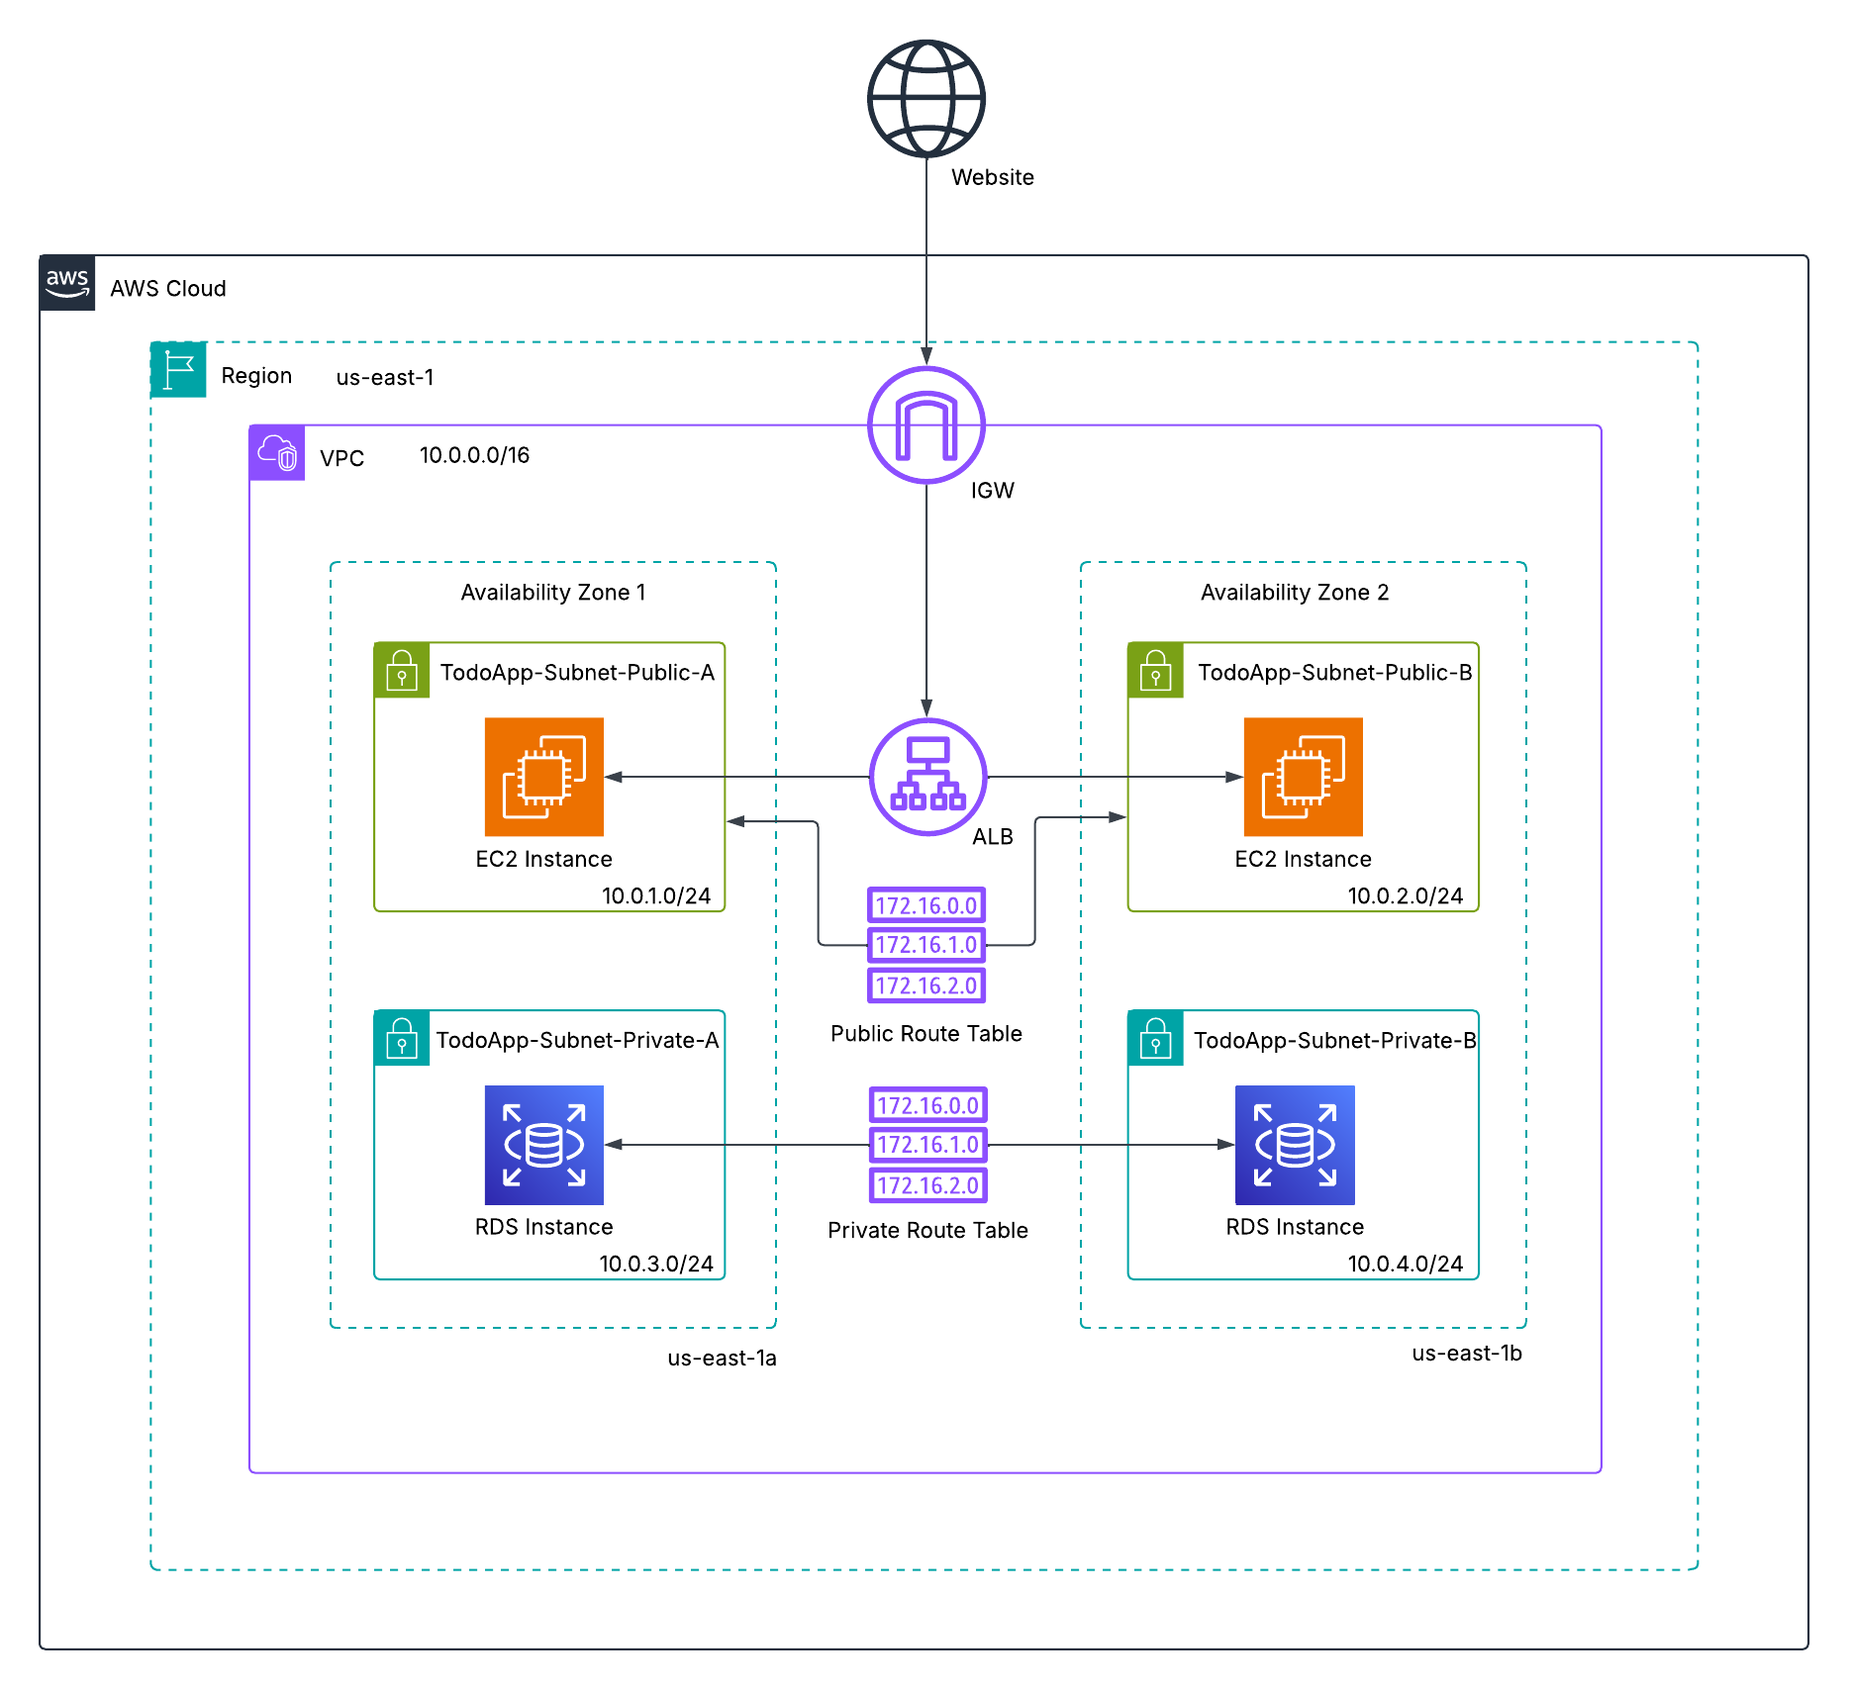
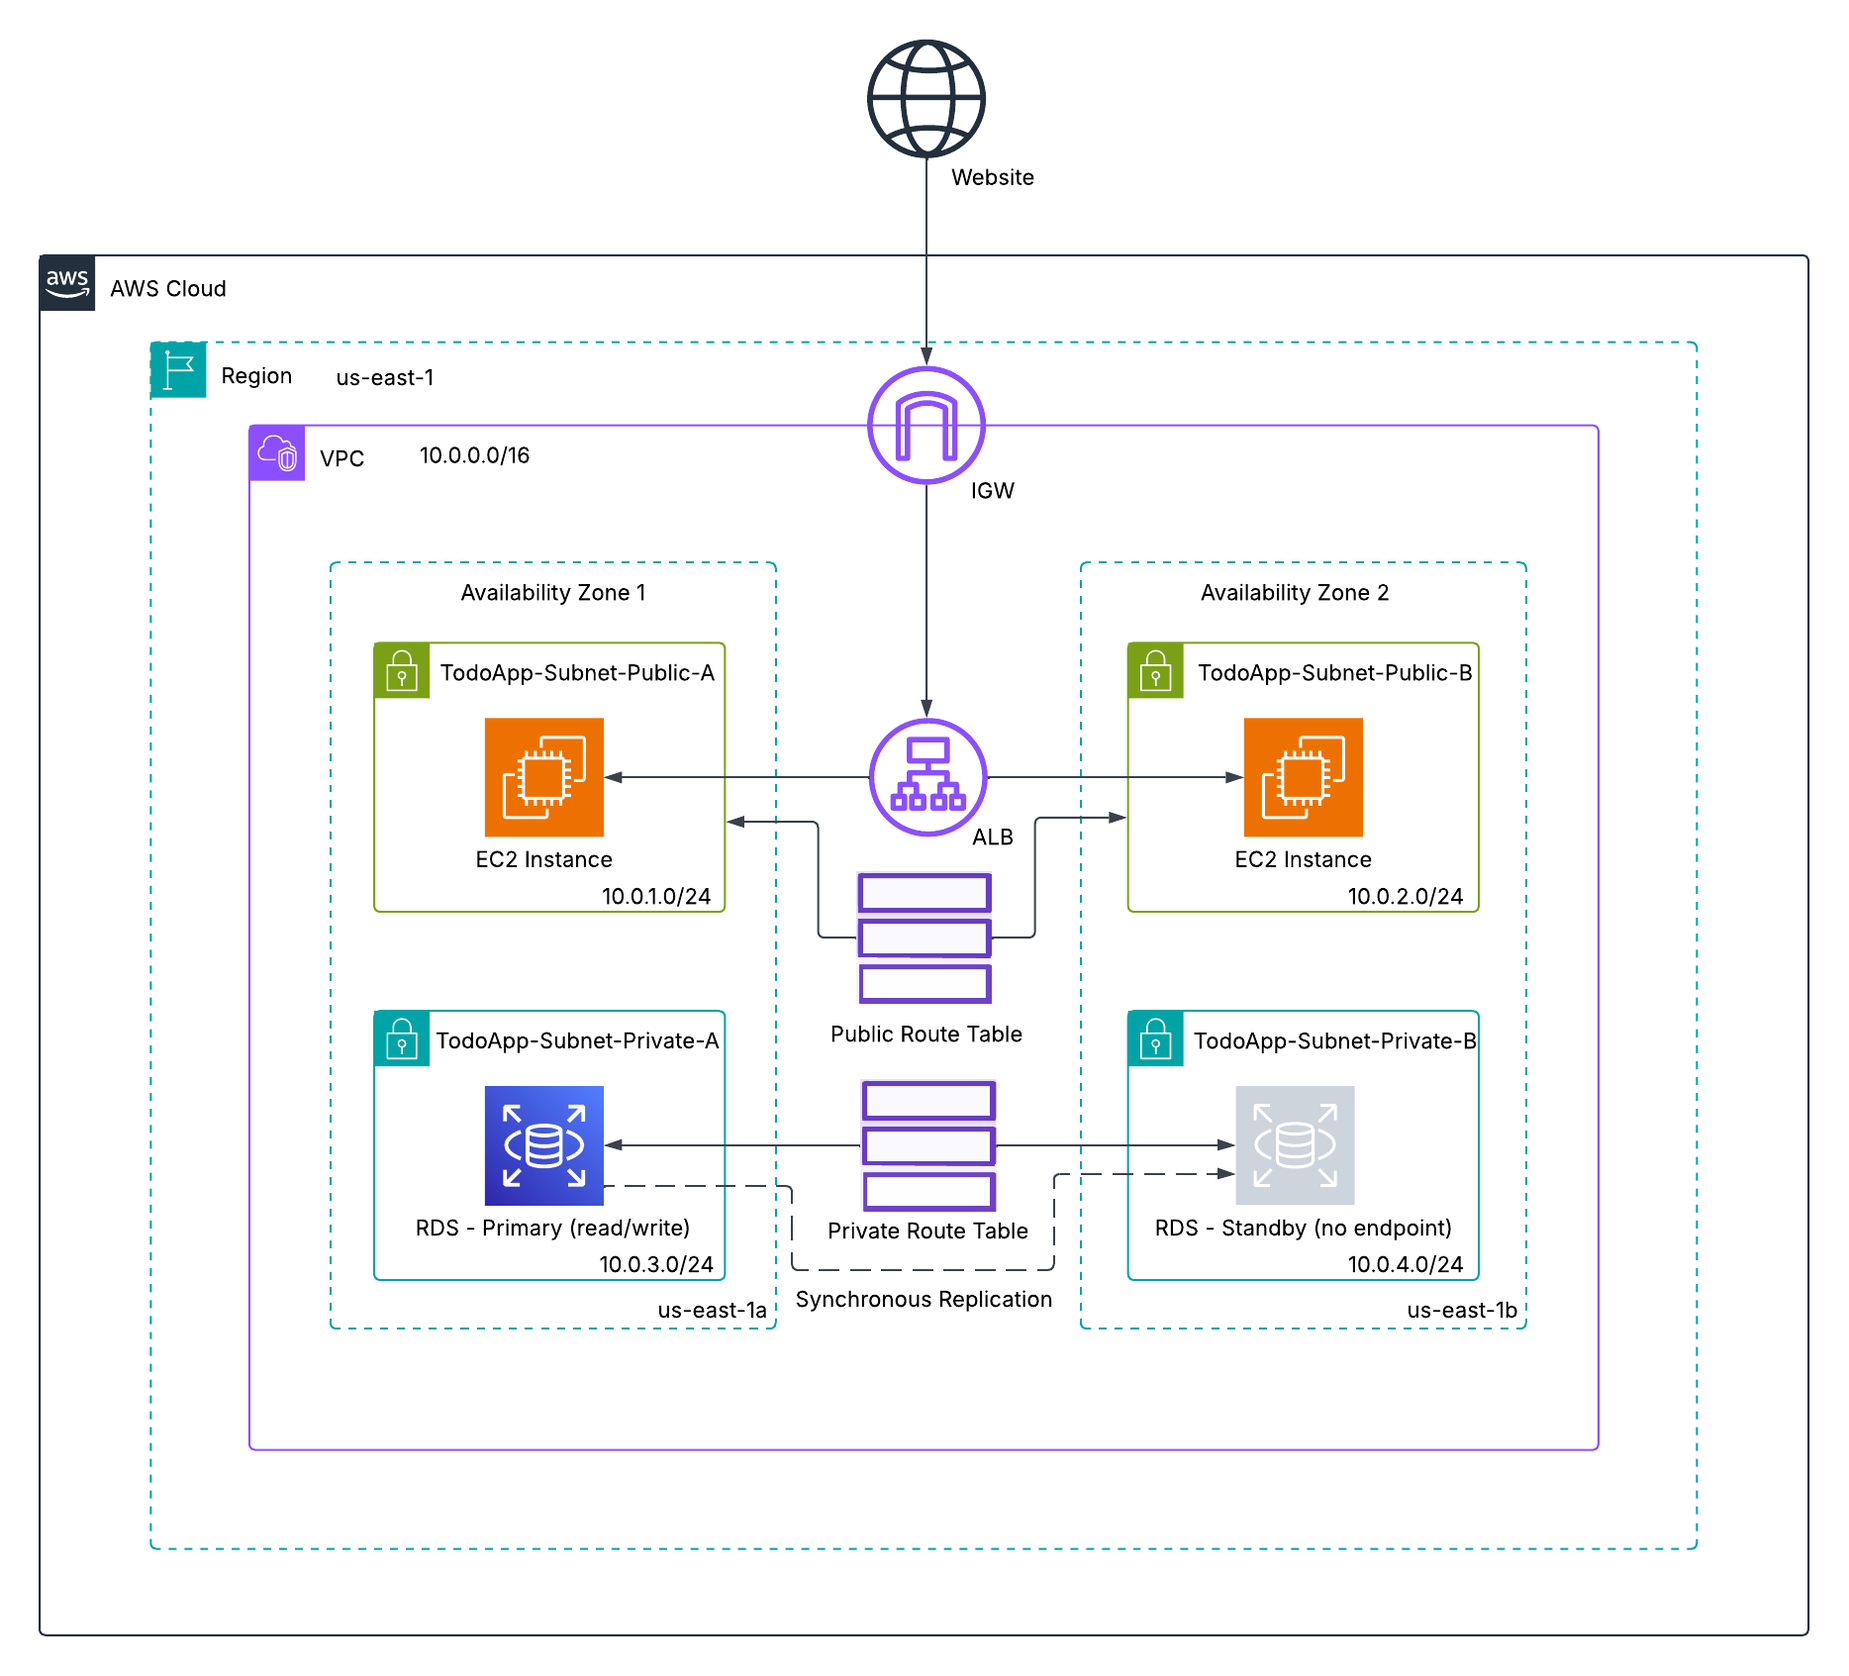
Cfn-lint edits, update diagram, and update README.md

diff --git a/README.md b/README.md
@@ -1,62 +1,62 @@
-# To-Do List Two-Tier Website
-A cloud-native web application that demonstrates a two-tier architecture on AWS. The project provisions a scalable Application Load Balancer (ALB) fronting two EC2 web servers in public subnets, with data persisted in a Multi-AZ RDS MySQL database in private subnets. All infrastructure is automated with nested CloudFormation stacks, following Infrastructure-as-Code best practices.
+# To-Do List Two-Tier Website  
+A cloud-native web application that demonstrates a two-tier architecture on AWS. The project provisions a scalable Application Load Balancer (ALB) fronting two EC2 web servers in public subnets, with data persisted in a Multi-AZ RDS MySQL database in private subnets. All infrastructure is automated with nested CloudFormation stacks, following Infrastructure as Code best practices.  
 
-A Bastion Host is deployed temporarily to initialize the database schema using MySQL client. Once the schema is created, the Bastion Host can be safely terminated.
+A Bastion Host is deployed temporarily to initialize the database schema using MySQL client. Once the schema is created, the Bastion Host can be safely terminated.  
 
-## Architecture Overview
+## Architecture Overview  
 ![Architecture Diagram](assets/architecture-diagram.png)  
-*Figure 1: Architecture diagram of the To-Do Two-Tier Application.*
+*Figure 1: Architecture diagram of the To-Do Two-Tier Application.*  
 
-- **Amazon VPC** – Custom networking with public/private subnets, route tables, and Internet Gateway.
-- **Amazon EC2** – Web servers hosting the Node.js application, deployed in public subnets.
-- **Application Load Balancer (ALB)** – Distributing HTTP traffic across EC2 web servers.
-- **Amazon RDS (MySQL Multi-AZ)** – Highly available relational database for persistent task storage.
-- **Amazon S3** – Storing nested CloudFormation templates and application artifacts.
-- **Security Groups** – Enforcing least-privilege traffic rules between ALB, web servers, database, and Bastion Host.
-- **IAM Roles/Policies** – Instance profiles granting EC2 least-privilege access to S3 artifacts.
+### Core Components
+- **Amazon VPC** – Custom networking with public/private subnets, route tables, and Internet Gateway.  
+- **Amazon EC2** – Web servers hosting the Node.js application, deployed in public subnets.  
+- **Application Load Balancer (ALB)** – Distributing HTTP traffic across EC2 web servers.  
+- **Amazon RDS (MySQL Multi-AZ)** – Highly available relational database for persistent task storage.  
+- **Amazon S3** – Storing nested CloudFormation templates and application artifacts.  
+- **Security Groups** – Enforcing least-privilege traffic rules between ALB, web servers, database, and Bastion Host.  
+- **IAM Roles/Policies** – Instance profiles granting EC2 least-privilege access to S3 artifacts.  
 
-## Skills Applied
-- Designing and deploying a **two-tier web application architecture** in AWS.
-- Building **nested CloudFormation templates** for modular and reusable infrastructure deployments.
-- Automating **VPC networking and routing** with subnets and route tables.
-- Configuring **load balancing and health checks** with an Application Load Balancer.
-- Securing connectivity with **granular security groups** and restricted SSH access.
-- Provisioning a **Multi-AZ RDS MySQL database** and automating schema creation via Bastion Host.
-- Managing **S3 bucket policies** to enable CloudFormation nested stack access.
-- Implementing **PM2 process manager** for Node.js application reliability and auto-restart.
+## Skills Applied  
+- Designing and deploying a **two-tier web application architecture** in AWS.  
+- Building **nested CloudFormation templates** for modular and reusable infrastructure deployments.  
+- Automating **VPC networking and routing** with subnets and route tables.  
+- Configuring **load balancing and health checks** with an Application Load Balancer.  
+- Securing connectivity with **granular security groups** and restricted SSH access.  
+- Provisioning a **Multi-AZ RDS MySQL database** and automating schema creation via Bastion Host.  
+- Managing **S3 bucket policies** to enable CloudFormation nested stack access.  
+- Implementing **PM2 process manager** for Node.js application reliability and auto-restart.  
 
-## Features
-- **Task Management** – Add, view, complete, and delete to-do items through a simple web UI.
-- **Persistent Storage** – Tasks stored in an RDS MySQL backend survive server restarts.
-- **Scalable Web Tier** – ALB distributes traffic evenly across multiple EC2 instances.
-- **Automated Deployment** – Entire environment provisioned via nested CloudFormation stacks.
-- **Secure Database Access** – Database accessible only from web server SGs (not the public internet).
-- **Bastion Host Initialization** – One-time DB schema creation without exposing MySQL publicly.
+## Features  
+- **Task Management** – Add, view, complete, and delete to-do items through a simple web UI.  
+- **Persistent Storage** – Tasks stored in an RDS MySQL backend survive server restarts.  
+- **Scalable Web Tier** – ALB distributes traffic evenly across multiple EC2 instances.  
+- **Automated Deployment** – Entire environment provisioned via nested CloudFormation stacks.  
+- **Secure Database Access** – Database accessible only from web server SGs (not the public internet).  
+- **Bastion Host Initialization** – One-time DB schema creation without exposing MySQL publicly.  
 
-## Tech Stack
-- **Languages:** Node.js (JavaScript) 18.20
-- **AWS Services:** VPC, EC2, ALB, RDS (MySQL), S3, IAM, Security Groups
-- **IaC Tool:** AWS CloudFormation (nested stacks)
-- **Other Tools:** PM2, MySQL Client, AWS CLI
+## Tech Stack  
+- **Languages:** Node.js (JavaScript) 18.20  
+- **AWS Services:** VPC, EC2, ALB, RDS (MySQL), S3, IAM, Security Groups  
+- **IaC Tool:** AWS CloudFormation (nested stacks)  
+- **Other Tools:** PM2, MySQL Client, AWS CLI  
 
-## Deployment Instructions
-> **Note:** All command-line examples use `bash` syntax highlighting to maximize compatibility and readability. 
+## Deployment Instructions  
+> **Note:** Many commands are identical across shells; the main differences are line continuation (PowerShell: `` ` `` • Bash: `\` • cmd.exe: `^`), environment variables (PowerShell: `$env:NAME=...` • Bash: `NAME=...` • cmd.exe: `set NAME=...`), and path separators.  
 
-> If you are using PowerShell or Command Prompt on Windows, the commands remain the same but prompt styles may differ.
+### CloudFormation  
+1. Clone this repository.  
 
-### CloudFormation
-1. Clone this repository.
-
-2. Deploy the `s3bucket.yaml` file to create an S3 bucket where the nested CloudFormation templates will be stored. Edit the parameter overrides to customize the deployment:
+2. Deploy the `s3bucket.yaml` file to create an S3 bucket where the nested CloudFormation templates will be stored. Edit the parameter overrides to customize the deployment:  
 	```bash
 	cd cloudformation
 	aws cloudformation deploy \
 	--stack-name todoapp-cfn-artifacts \
 	--template-file s3-bucket.yaml \
-	--parameter-overrides BucketName=<YOUR_BUCKET_NAME> AccountId=<YOUR_ACCOUNT_ID>
+	--parameter-overrides BucketName=<YOUR_BUCKET_NAME> AccountId=<YOUR_ACCOUNT_ID> \
+	--tags Project=aws-to-do-list-two-tier-website
 	```
 
-3. Upload the nested CloudFormation templates to the S3 bucket:
+3. Upload the nested CloudFormation templates to the S3 bucket:  
 	```bash
 	aws s3 cp phase1-networking.yaml s3://<YOUR_BUCKET_NAME>/cfn/
 	aws s3 cp phase2-security.yaml s3://<YOUR_BUCKET_NAME>/cfn/
@@ -64,89 +64,96 @@ A Bastion Host is deployed temporarily to initialize the database schema using M
 	aws s3 cp phase4-ec2.yaml s3://<YOUR_BUCKET_NAME>/cfn/
 	```
 
-4. Upload the `Todo-Two-Tier.zip` folder to the S3 bucket:
+4. Upload the `Todo-Two-Tier.zip` folder to the S3 bucket:  
 	```bash
 	aws s3 cp Todo-Two-Tier.zip s3://<YOUR_BUCKET_NAME>
 	```
 
-5. Edit the `params.json` and `parent-template.yaml` file to customize the deployment.
+5. Create an SSM SecureString parameter for the DB master password:  
+    ```bash
+	aws ssm put-parameter \
+	--name /todoapp/db/master_password \
+	--type SecureString \
+	--value 'Your_Password' \
+	--overwrite
+	```
+
+6. Edit the `params.json` and `parent-template.yaml` file to customize the deployment.  
    - `KeyName` is the SSH key pair that will be used to SSH to the web servers for any additional configuration or troubleshooting. This can be created separately in the AWS Management Console under EC2 > Key Pairs.  
    - `AdminIp` is your public IP address. This is used to lockdown SSH access to the web servers and Bastion Host, allowing only traffic from your IP address.  
-   - `DBUser` and `DBPassword` are the credentials that will be used to access the RDS instance. These values are included in the parameter file for convenience. In a production environment, these credentials should be stored and referenced from AWS Secrets Manager.  
+   - `DBUser` and `DBPasswordParameterName` are the credentials that will be used to access the RDS instance. The DB password is stored in the SSM SecureString parameter `DBPasswordParameterName`.  
    - `S3Bucket` is the name of the S3 bucket created in the previous steps.  
    - `S3Key` is the name of the application folder uploaded to the S3 bucket. This value should not change.  
    - `Phase*TemplateURL` is the Object URL of each nested template (e.g., https://<YOUR_BUCKET_NAME>.s3.<YOUR_REGION>.amazonaws.com/cfn/phase1-networking.yaml).  
    - The default values for `VPCCidr`, `PublicSubnetACidr`, `PrivateSubnetACidr`, `PublicSubnetBCidr`, and `PrivateSubnetBCidr` can be edited in the `parent-template.yaml` file.  
 
-6. Deploy the CloudFormation stack:
+7. Deploy the CloudFormation stack:  
 	```bash
 	aws cloudformation deploy \
 	--stack-name todoapp-parent \
 	--template-file parent-template.yaml \
 	--parameter-overrides file://params.json \
 	--capabilities CAPABILITY_NAMED_IAM
+	--tags Project=aws-to-do-list-two-tier-website
 	```
+> **Note**: Ensure the AWS CLI user (`aws configure`) or CloudFormation assumed role has sufficient permissions to manage **S3**, **EC2**, **RDS**, **VPCs**, **Subnets**, **Route Tables**, **Security Groups**, and **IAM resources**.  
 
-**Note:** Ensure the AWS CLI is configured (`aws configure`) with credentials that have sufficient permissions to manage **S3**, **EC2**, **RDS**, **VPCs**, **Subnets**, **Route Tables**, **Security Groups**, and **IAM resources**.
+## How to Use  
+1. **Deploy the infrastructure** using CloudFormation.  
 
-## How to Use
-1. **Deploy the infrastructure** using CloudFormation.
+2. **Access the application** in a web browser by going to http://<YOUR_ALBDNSName>.  
 
-2. **Access the application** in a web browser by going to http://<YOUR_ALBDNSName>.
+3. **Enter a task name and date (MM/DD/YYYY)**. The Calendar icon can be used to select the date.  
 
-3. **Enter a task name and date (MM/DD/YYYY)**. The Calendar icon can be used to select the date.
+4. **Click Add Task** to add the task to the To-Do List. The tasks will show underneath the **Add Task** button. The tasks are persistent when accessing the application in the future.  
 
-4. **Click Add Task** to add the task to the To-Do List. The tasks will show underneath the **Add Task** button. The tasks are persistent when accessing the application in the future.
+5. **Select the blue checkmark icon** to complete the task. This will turn the task item green and add a strikethrough to it.  
 
-5. **Select the blue checkmark icon** to complete the task. This will turn the task item green and add a strikethrough to it.
+6. **Select the red trashcan icon** to delete a task from the list.  
 
-6. **Select the red trashcan icon** to delete a task from the list.
-
-## Project Structure
+## Project Structure  
 ```plaintext
 aws-to-do-list-two-tier-website
-├── assets/                          	  # Images, diagrams, screenshots
+├── assets/                               # Images, diagrams, screenshots
 │   ├── architecture-diagram.png          # Project architecture diagram
 │   └── application-screenshot.png        # UI screenshot
 ├── cloudformation/                       # CloudFormation templates
-│   ├── parent-template.yaml          	  # Main CloudFormation template
+│   ├── parent-template.yaml              # Main CloudFormation template
 │   ├── phase1-networking.yaml            # Networking template
 │   ├── phase2-security.yaml              # Security template
 │   ├── phase3-rds.yaml                   # RDS template
 │   ├── phase4-ec2.yaml                   # EC2 template
 │   ├── params.json                       # Parameter values for CloudFormation
-│   └── s3-bucket.yaml				      # Template for S3 bucket to store nested templates
+│   └── s3-bucket.yaml                    # Template for S3 bucket to store nested templates
 ├── Todo-Two-Tier.zip                     # Packaged To-Do List application (Node.js + static assets)
-├── LICENSE
-├── README.md
-└── .gitignore
+├── LICENSE                               
+├── README.md                             
+└── .gitignore                            
 ```  
 
-## Screenshot
-![To-Do List](assets/application-screenshot.png)
-
+## Screenshot  
+![To-Do List](assets/application-screenshot.png)  
 *Figure 2: To-Do List Application UI.*  
 
-## Future Enhancements
-- **CI/CD Integration** with GitHub Actions or AWS CodePipeline for continuous delivery.
-- **Auto Scaling Group** for web servers to dynamically adjust to traffic demand.
-- **Secrets Management** using AWS Secrets Manager instead of parameter values for DB credentials.
-- **HTTPS Termination** at the ALB with an ACM certificate for secure client traffic.
-- **Monitoring & Alarms** via Amazon CloudWatch for EC2 health, RDS metrics, and application logs.
-- **Cost Optimization** with reserved instances or savings plans for RDS.
+## Future Enhancements  
+- **CI/CD Integration** with GitHub Actions or AWS CodePipeline for continuous delivery.  
+- **Auto Scaling Group** for web servers to dynamically adjust to traffic demand.  
+- **HTTPS Termination** at the ALB with an ACM certificate for secure client traffic.  
+- **Monitoring & Alarms** via Amazon CloudWatch for EC2 health, RDS metrics, and application logs.  
+- **Cost Optimization** with reserved instances or savings plans for RDS.  
 
-## License
-This project is licensed under the [MIT License](LICENSE).
+## License  
+This project is licensed under the [MIT License](LICENSE).  
 
 ---
 
-## Author
+## Author  
 **Patrick Heese**  
 Cloud Administrator | Aspiring Cloud Engineer/Architect  
-[LinkedIn Profile](https://www.linkedin.com/in/patrick-heese/) | [GitHub Profile](https://github.com/patrick-heese)
+[LinkedIn Profile](https://www.linkedin.com/in/patrick-heese/) | [GitHub Profile](https://github.com/patrick-heese)  
 
-## Acknowledgments
+## Acknowledgments  
 This project was inspired by a course from [techwithlucy](https://github.com/techwithlucy).  
 The Todo-Two-Tier application code is taken directly from the author's original implementation.  
 The architecture diagram included here is my own version, adapted from the original course diagram.  
-I designed and developed all Infrastructure-as-Code (CloudFormation, SAM, Terraform) and project documentation.  
+I designed and developed all Infrastructure as Code (CloudFormation) and project documentation.  
